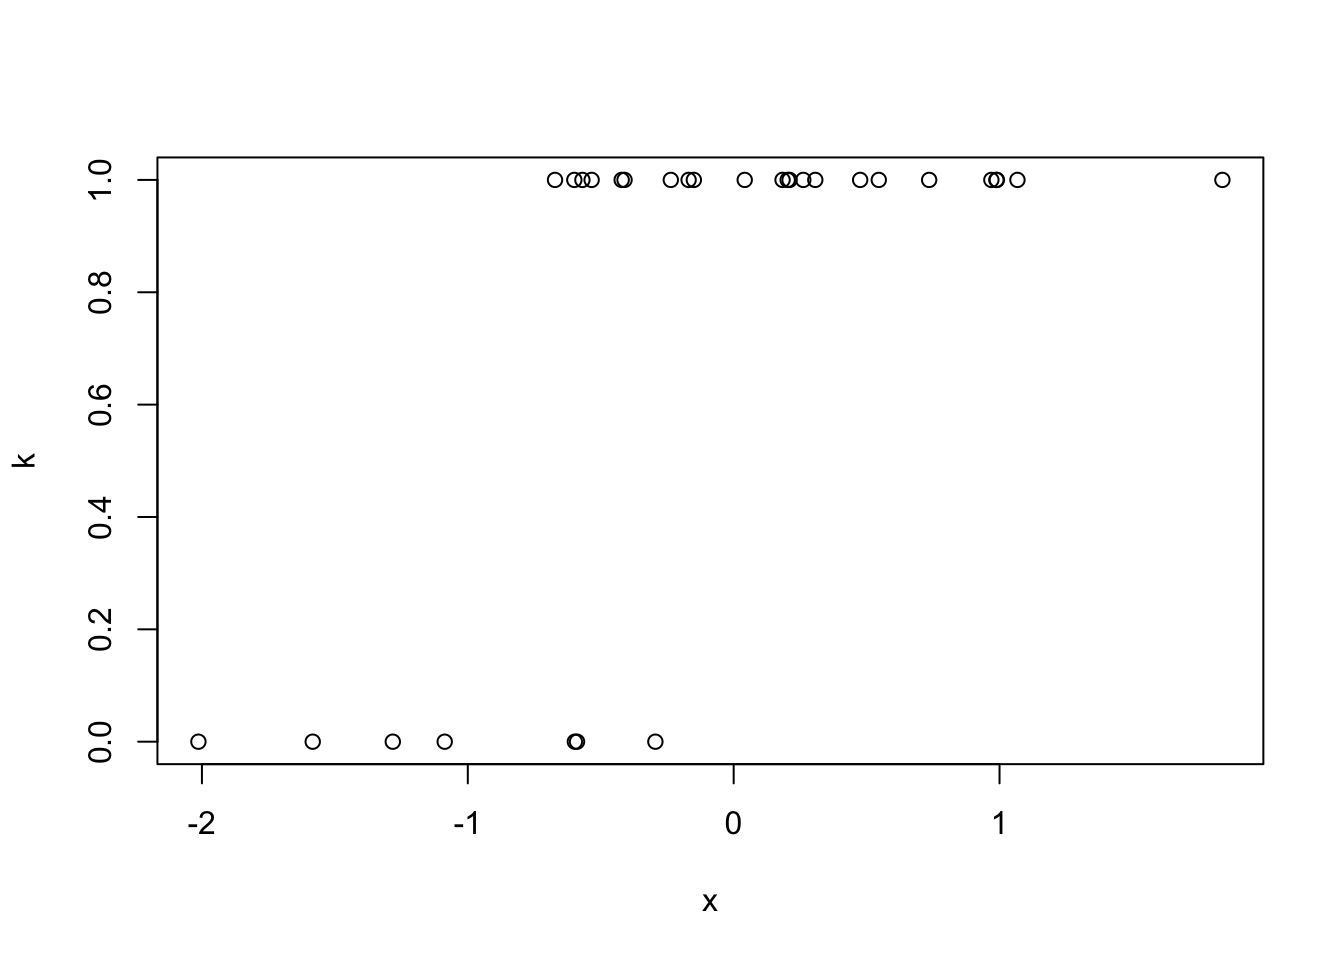
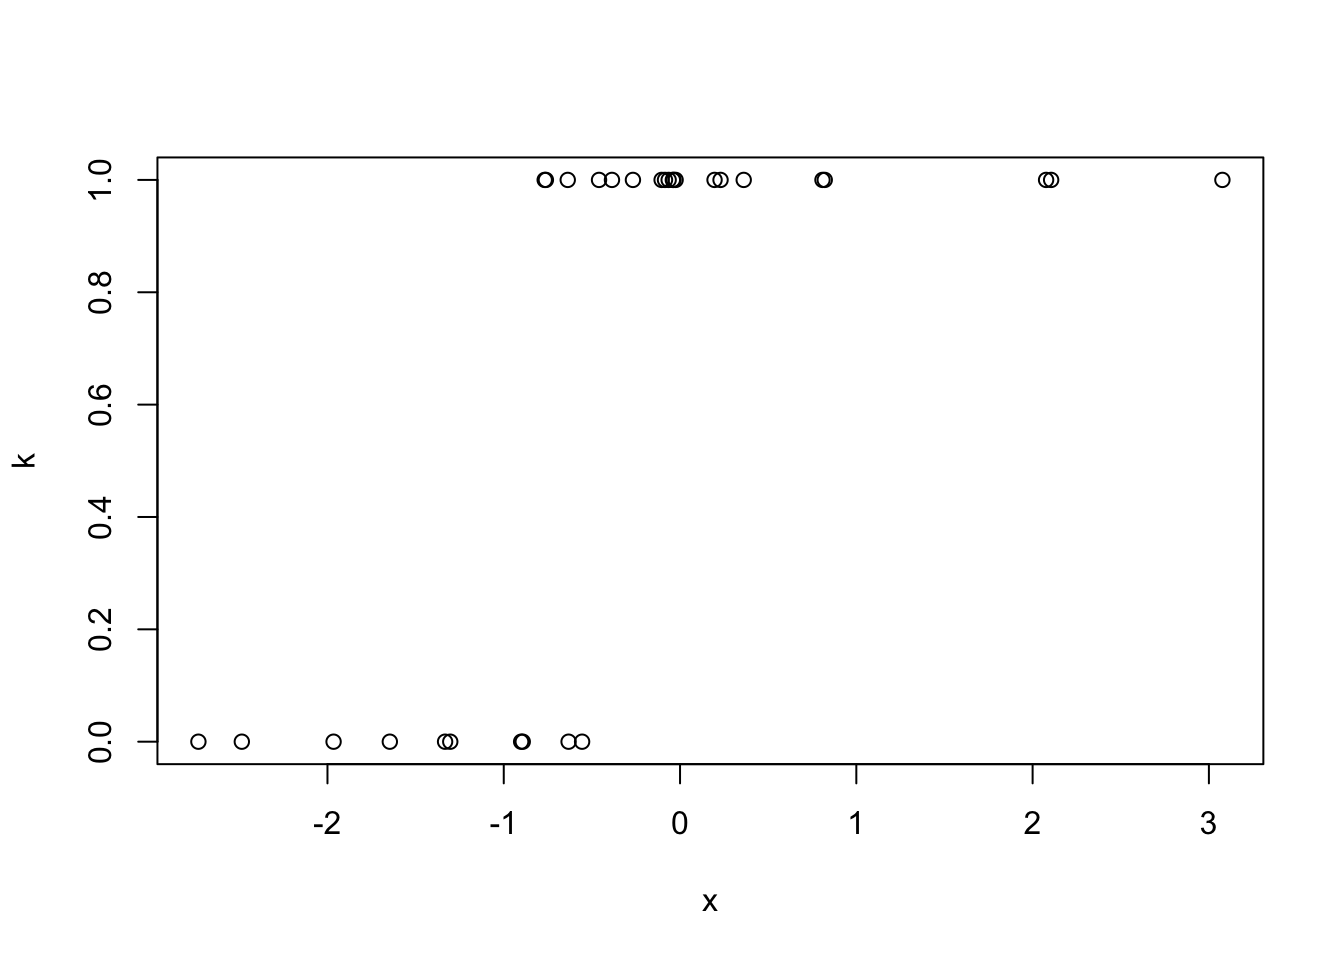
link update

diff --git a/docs/bootcamp-r-series-010-intro-to-r-pt1.html b/docs/bootcamp-r-series-010-intro-to-r-pt1.html
@@ -875,24 +875,24 @@ integer (most of the time).</p>
 <pre class="r"><code># most often used for categorical observations
 pets &lt;- c(&quot;cat&quot;, &quot;dog&quot;, &quot;lizard&quot;, &quot;raccoon&quot;)
 (pet_obs &lt;- sample(pets, 20, TRUE))</code></pre>
-<pre><code>##  [1] &quot;lizard&quot;  &quot;raccoon&quot; &quot;raccoon&quot; &quot;cat&quot;     &quot;raccoon&quot; &quot;raccoon&quot; &quot;cat&quot;    
-##  [8] &quot;raccoon&quot; &quot;lizard&quot;  &quot;dog&quot;     &quot;cat&quot;     &quot;cat&quot;     &quot;cat&quot;     &quot;cat&quot;    
-## [15] &quot;lizard&quot;  &quot;cat&quot;     &quot;dog&quot;     &quot;cat&quot;     &quot;dog&quot;     &quot;dog&quot;</code></pre>
+<pre><code>##  [1] &quot;cat&quot;     &quot;dog&quot;     &quot;cat&quot;     &quot;lizard&quot;  &quot;raccoon&quot; &quot;raccoon&quot; &quot;lizard&quot; 
+##  [8] &quot;lizard&quot;  &quot;lizard&quot;  &quot;raccoon&quot; &quot;cat&quot;     &quot;raccoon&quot; &quot;lizard&quot;  &quot;lizard&quot; 
+## [15] &quot;dog&quot;     &quot;raccoon&quot; &quot;lizard&quot;  &quot;dog&quot;     &quot;cat&quot;     &quot;dog&quot;</code></pre>
 <pre class="r"><code># Turn the character vector into a set of factors
 pet_fct &lt;- factor(pet_obs)
 pet_fct</code></pre>
-<pre><code>##  [1] lizard  raccoon raccoon cat     raccoon raccoon cat     raccoon lizard 
-## [10] dog     cat     cat     cat     cat     lizard  cat     dog     cat    
-## [19] dog     dog    
+<pre><code>##  [1] cat     dog     cat     lizard  raccoon raccoon lizard  lizard  lizard 
+## [10] raccoon cat     raccoon lizard  lizard  dog     raccoon lizard  dog    
+## [19] cat     dog    
 ## Levels: cat dog lizard raccoon</code></pre>
 <pre class="r"><code># can be converted to an integer vector
 as.integer(pet_fct)</code></pre>
-<pre><code>##  [1] 3 4 4 1 4 4 1 4 3 2 1 1 1 1 3 1 2 1 2 2</code></pre>
+<pre><code>##  [1] 1 2 1 3 4 4 3 3 3 4 1 4 3 3 2 4 3 2 1 2</code></pre>
 <pre class="r"><code># can be converted to a character vector
 as.character(pet_fct)</code></pre>
-<pre><code>##  [1] &quot;lizard&quot;  &quot;raccoon&quot; &quot;raccoon&quot; &quot;cat&quot;     &quot;raccoon&quot; &quot;raccoon&quot; &quot;cat&quot;    
-##  [8] &quot;raccoon&quot; &quot;lizard&quot;  &quot;dog&quot;     &quot;cat&quot;     &quot;cat&quot;     &quot;cat&quot;     &quot;cat&quot;    
-## [15] &quot;lizard&quot;  &quot;cat&quot;     &quot;dog&quot;     &quot;cat&quot;     &quot;dog&quot;     &quot;dog&quot;</code></pre>
+<pre><code>##  [1] &quot;cat&quot;     &quot;dog&quot;     &quot;cat&quot;     &quot;lizard&quot;  &quot;raccoon&quot; &quot;raccoon&quot; &quot;lizard&quot; 
+##  [8] &quot;lizard&quot;  &quot;lizard&quot;  &quot;raccoon&quot; &quot;cat&quot;     &quot;raccoon&quot; &quot;lizard&quot;  &quot;lizard&quot; 
+## [15] &quot;dog&quot;     &quot;raccoon&quot; &quot;lizard&quot;  &quot;dog&quot;     &quot;cat&quot;     &quot;dog&quot;</code></pre>
 </div>
 <div id="overview-of-objects-and-data-structures"
 class="section level2">
@@ -1313,15 +1313,15 @@ lm(y ~ x) # slope-intercept model. Same as `lm(y ~ 1 + x)`</code></pre>
 ## 
 ## Coefficients:
 ## (Intercept)            x  
-##       2.022        3.002</code></pre>
+##       1.937        3.168</code></pre>
 <pre class="r"><code>lm(y ~ 0 + x) # slope only model (no intercept)</code></pre>
 <pre><code>## 
 ## Call:
 ## lm(formula = y ~ 0 + x)
 ## 
 ## Coefficients:
-##    x  
-## 2.77</code></pre>
+##     x  
+## 2.827</code></pre>
 <p>Can also fit a generalized linear model using (you guessed it) the
 <code>glm()</code> function.</p>
 <pre class="r"><code># logit(theta) = 3x + 2
@@ -1335,11 +1335,11 @@ glm(k ~ 1 + x, family = binomial(link = &quot;logit&quot;))</code></pre>
 ## 
 ## Coefficients:
 ## (Intercept)            x  
-##       3.655        5.428  
+##       5.223        7.311  
 ## 
 ## Degrees of Freedom: 29 Total (i.e. Null);  28 Residual
-## Null Deviance:       32.6 
-## Residual Deviance: 13.88     AIC: 17.88</code></pre>
+## Null Deviance:       38.19 
+## Residual Deviance: 11.04     AIC: 15.04</code></pre>
 </div>
 <div id="summarizing-data-frames-and-models" class="section level2">
 <h2>Summarizing data frames and models</h2>
@@ -1349,17 +1349,17 @@ models, and it is the <code>summary()</code> function.</p>
 z &lt;- rnorm(50)
 summary(z)</code></pre>
 <pre><code>##    Min. 1st Qu.  Median    Mean 3rd Qu.    Max. 
-## -1.8697 -0.6948  0.2018  0.0548  0.7593  2.1038</code></pre>
+## -1.8838 -0.8397  0.2606  0.1205  0.9925  2.3162</code></pre>
 <pre class="r"><code># summarize a data frame
 df &lt;- data.frame(a = 1L:10L, b = rexp(10), c = factor(sample(c(&quot;a&quot;, &quot;b&quot;, &quot;c&quot;), 10, TRUE)))
 summary(df)</code></pre>
-<pre><code>##        a               b           c    
-##  Min.   : 1.00   Min.   :0.07436   a:2  
-##  1st Qu.: 3.25   1st Qu.:0.79083   b:3  
-##  Median : 5.50   Median :1.21760   c:5  
-##  Mean   : 5.50   Mean   :1.16441        
-##  3rd Qu.: 7.75   3rd Qu.:1.45482        
-##  Max.   :10.00   Max.   :2.42749</code></pre>
+<pre><code>##        a               b          c    
+##  Min.   : 1.00   Min.   :0.1765   a:5  
+##  1st Qu.: 3.25   1st Qu.:0.3159   b:2  
+##  Median : 5.50   Median :0.4328   c:3  
+##  Mean   : 5.50   Mean   :0.6022        
+##  3rd Qu.: 7.75   3rd Qu.:0.8718        
+##  Max.   :10.00   Max.   :1.5396</code></pre>
 <pre class="r"><code># summarize a linear model
 fit &lt;- lm(y ~ 1 + x)
 summary(fit)</code></pre>
@@ -1368,19 +1368,19 @@ summary(fit)</code></pre>
 ## lm(formula = y ~ 1 + x)
 ## 
 ## Residuals:
-##      Min       1Q   Median       3Q      Max 
-## -0.98211 -0.47643 -0.02623  0.26645  1.49528 
+##     Min      1Q  Median      3Q     Max 
+## -1.4038 -0.5309  0.0785  0.4558  1.2612 
 ## 
 ## Coefficients:
 ##             Estimate Std. Error t value Pr(&gt;|t|)    
-## (Intercept)   2.0225     0.1027   19.69   &lt;2e-16 ***
-## x             3.0019     0.1234   24.34   &lt;2e-16 ***
+## (Intercept)  1.93651    0.12174   15.91 1.49e-15 ***
+## x            3.16809    0.09644   32.85  &lt; 2e-16 ***
 ## ---
 ## Signif. codes:  0 &#39;***&#39; 0.001 &#39;**&#39; 0.01 &#39;*&#39; 0.05 &#39;.&#39; 0.1 &#39; &#39; 1
 ## 
-## Residual standard error: 0.5601 on 28 degrees of freedom
-## Multiple R-squared:  0.9549, Adjusted R-squared:  0.9532 
-## F-statistic: 592.2 on 1 and 28 DF,  p-value: &lt; 2.2e-16</code></pre>
+## Residual standard error: 0.6501 on 28 degrees of freedom
+## Multiple R-squared:  0.9747, Adjusted R-squared:  0.9738 
+## F-statistic:  1079 on 1 and 28 DF,  p-value: &lt; 2.2e-16</code></pre>
 <p>Notice that it outputs differently for different input objects. This
 is because <code>summary()</code> is a <em>generic</em> function,
 meaning that it has multiple <em>methods</em> defined for different R

diff --git a/docs/bootcamp-r-series-040-tidy.html b/docs/bootcamp-r-series-040-tidy.html
@@ -3603,29 +3603,29 @@ replication</li>
 # notice you do not need the () after the function as you would if executing from consol
 map(df, mean)</code></pre>
 <pre><code>## $a
-## [1] -0.2772272
+## [1] -0.673135
 ## 
 ## $b
-## [1] -0.08805118
+## [1] -0.1432875
 ## 
 ## $c
-## [1] 0.3821985
+## [1] 0.08330613
 ## 
 ## $d
-## [1] -0.2952629</code></pre>
+## [1] -0.4454209</code></pre>
 <pre class="r"><code># can pipe it an input to make the process even easier
 df %&gt;% map(mean)</code></pre>
 <pre><code>## $a
-## [1] -0.2772272
+## [1] -0.673135
 ## 
 ## $b
-## [1] -0.08805118
+## [1] -0.1432875
 ## 
 ## $c
-## [1] 0.3821985
+## [1] 0.08330613
 ## 
 ## $d
-## [1] -0.2952629</code></pre>
+## [1] -0.4454209</code></pre>
 <p>You may have noticed that the output format is not necessarily in the
 format that we might expect. The <code>map()</code> function always
 outputs a list.</p>
@@ -3636,7 +3636,7 @@ vector of the indicated type (or die trying).</p>
 <pre class="r"><code># Should return a numerical vector rather than a list
 map_dbl(df, mean)</code></pre>
 <pre><code>##           a           b           c           d 
-## -0.27722717 -0.08805118  0.38219846 -0.29526292</code></pre>
+## -0.67313500 -0.14328753  0.08330613 -0.44542092</code></pre>
 </div>
 </div>
 

diff --git a/docs/bootcamp-supervised-ml-2023-01.html b/docs/bootcamp-supervised-ml-2023-01.html
@@ -484,7 +484,7 @@ here to be taken to the application form</a></span></p>
 indicate why one cannot self-support their attendance</li>
 </ul>
 <p><span
-style="font-size: 16pt; float: center;"><a href="https://nvideaoffice.formstack.com/forms/pythonmachinelearningbootcamp">Click
+style="font-size: 16pt; float: center;"><a href="https://nvideaoffice.formstack.com/forms/pythonmachinelearningbootcamp_fac">Click
 here to be taken to the faculty application form</a></span></p>
 <p>Application is open until <strong>January 6, 2023</strong>. Completed
 applications will be reviewed weekly until the closing date and

diff --git a/docs/bootcamp-r-series-020-intro-to-r-pt2.html b/docs/bootcamp-r-series-020-intro-to-r-pt2.html
@@ -536,7 +536,7 @@ switch (stat,
   round = round(x, 2),
   &quot;Default option: no match found&quot;
 )</code></pre>
-<pre><code>## [1] 3.139494</code></pre>
+<pre><code>## [1] 3.191263</code></pre>
 </div>
 </div>
 <div id="the--apply-family-of-functions" class="section level2">
